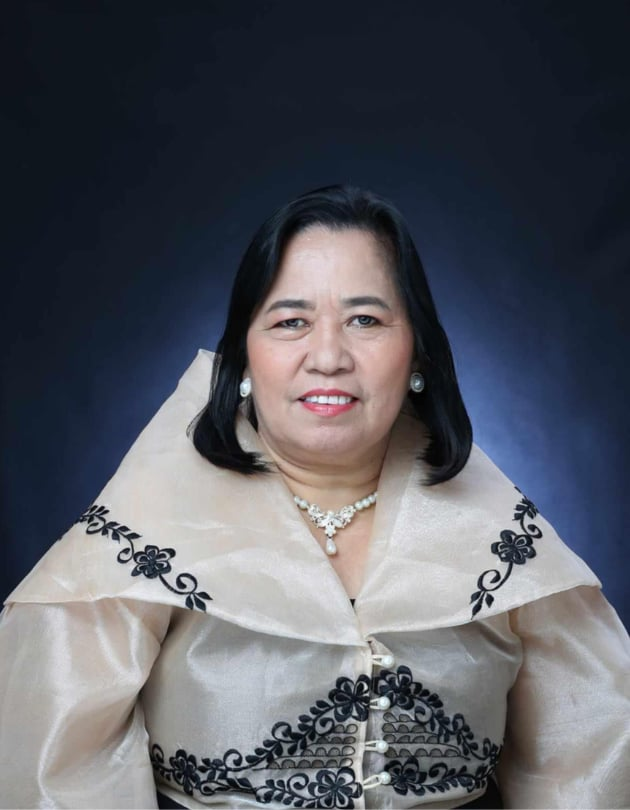
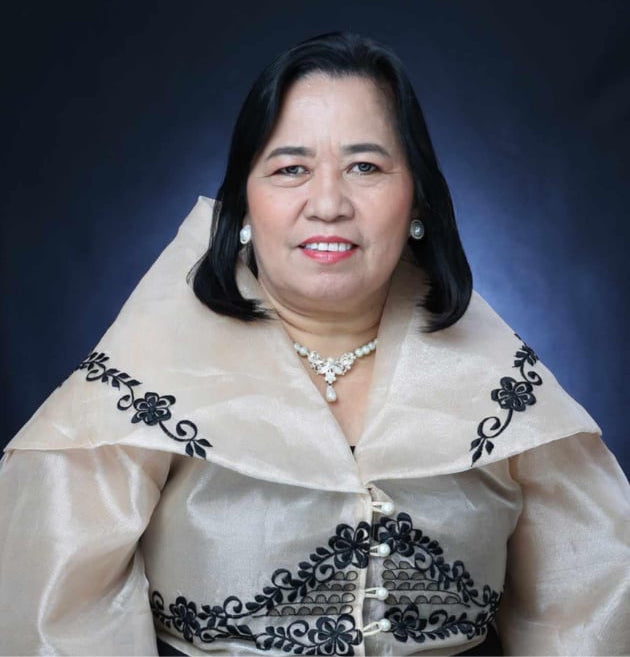
feat: update OVPR-IE director profile images and refine UI styling in research pages

diff --git a/resources/js/pages/research/Rie.vue b/resources/js/pages/research/Rie.vue
@@ -99,7 +99,7 @@ const researchDirector: Leader = {
     name: 'Arturo G. Gracia, Jr., MSci',
     role: 'Director, Research and Innovation / University Researcher V',
     email: 'research@nemsu.edu.ph',
-    image: null,
+    image: '/images/administration/ovprie/director-research.png',
     alt: 'Arturo G. Gracia, Jr., MSci',
     summary:
         'RIDO supports University researchers through research programs, policy recommendations, funded project development, inter-campus collaboration, dissemination, and ethical compliance coordination.',
@@ -119,7 +119,7 @@ const extensionDirector: Leader = {
     name: 'Abundio C. Miralles, EdD',
     role: 'Director, Extension Services and Linkages / University Extension Specialist V',
     email: 'extension@nemsu.edu.ph',
-    image: null,
+    image: '/images/administration/ovprie/director-extension_.jpg',
     alt: 'Abundio C. Miralles, EdD',
     summary:
         'ESLO bridges the University and broader community through education, training, technical assistance, sustainable development partnerships, and community empowerment.',
@@ -940,7 +940,7 @@ onBeforeUnmount(() => {
                             </div>
                             <div class="mt-5">
                                 <p
-                                    class="text-sm font-semibold tracking-wide text-[#9b1c31] uppercase dark:text-rose-300"
+                                    class="text-xs font-semibold leading-relaxed tracking-wide text-[#9b1c31] uppercase text-pretty dark:text-rose-300"
                                 >
                                     {{ group.director.role }}
                                 </p>

diff --git a/resources/js/pages/research/Centers.vue b/resources/js/pages/research/Centers.vue
@@ -390,7 +390,7 @@ const filteredCenters = computed(() => {
                                     {{ center.summary }}
                                 </p>
                             </div>
-
+<!-- 
                             <div
                                 class="mt-6 border-t border-slate-100 pt-4 dark:border-white/5"
                             >
@@ -399,7 +399,7 @@ const filteredCenters = computed(() => {
                                 >
                                     NEMSU Research Center
                                 </span>
-                            </div>
+                            </div> -->
                         </article>
                     </div>
 
